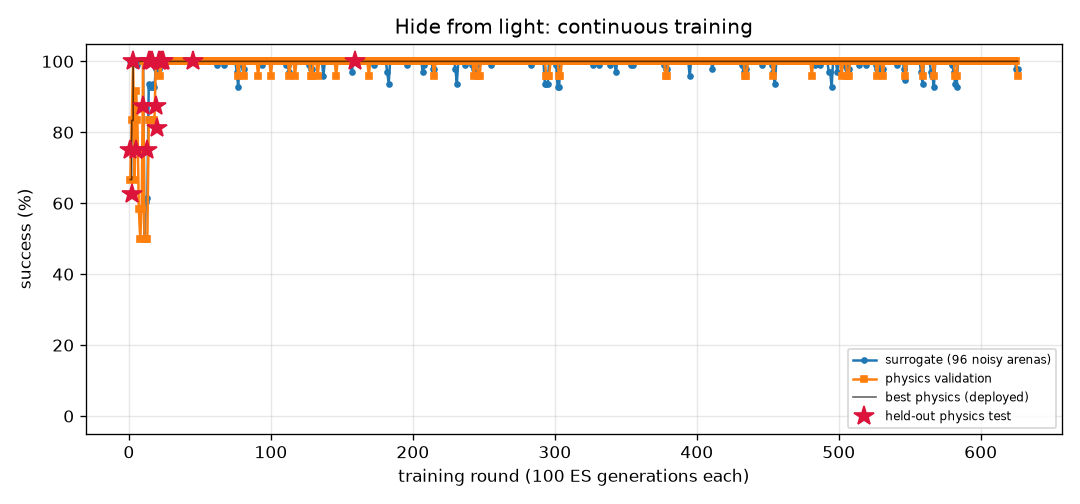
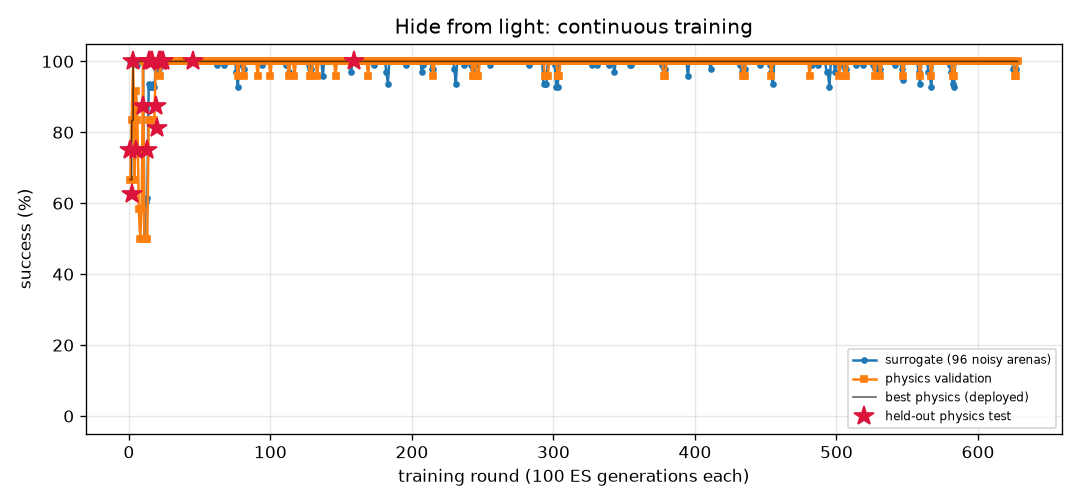
FlyLab: daily snapshot 2026-11-12
Daily entry in projects/09_flylab/training/daily/2026-11.md, plus 9 uncommitted training output file(s).

diff --git a/projects/09_flylab/training/light_avoid/REPORT.md b/projects/09_flylab/training/light_avoid/REPORT.md
@@ -1,14 +1,14 @@
 # Hide from light (`light_avoid`) — training report
 
-*Auto-generated by `train_brains.py`, last updated 2026-11-12T20:08:02.*
+*Auto-generated by `train_brains.py`, last updated 2026-11-12T20:25:10.*
 
 ![curve](curve.png)
 
 | | |
 |---|---|
-| rounds | 626 |
-| ES generations | 62600 |
-| physics runs | 15296 |
+| rounds | 628 |
+| ES generations | 62800 |
+| physics runs | 15344 |
 | status | **optimal** |
 | best brain | round 159: physics validation **100%** on 24 arenas, surrogate 100% |
 | held-out physics test | **100%** on 32 unseen arenas (95% CI 89%-100%) (errors: [14.4, 56.1, 58.0, 57.9, 57.5, 14.0, 14.4, 56.6, 56.8, 13.3, 14.1, 56.6, 57.6, 13.1, 57.3, 55.9, 57.2, 55.0, 55.2, 53.9, 55.2, 12.4, 53.8, 53.7, 14.1, 13.7, 55.0, 57.8, 56.2, 13.1, 52.8, 56.5]) |
@@ -17,8 +17,6 @@ Physics error per arena: mm gained away from source (> 6 without first approachi
 
 | round | level | gens | sigma | surrogate | physics val | val errors | test | note |
 |---:|---:|---:|---:|---:|---:|---|---:|---|
-| 587 | 3 | 58700 | 0.024 | 100% | 100% | [57.3, 60.0, 60.0, 56.9, 57.5, 57.3, 59.4, 14.5, 53.7, 13.4, 58.0, 57.3, 14.4, 55.2, 60.1, 56.7, 14.2, 58.4, 60.1, 14.4, 55.9, 56.0, 59.0, 56.4] |  | restart from best |
-| 588 | 3 | 58800 | 0.024 | 100% | 100% | [52.7, 57.4, 56.9, 53.7, 57.9, 53.6, 55.0, 14.5, 54.2, 13.1, 56.7, 57.8, 14.4, 55.0, 57.2, 56.1, 14.2, 58.2, 57.5, 14.4, 54.0, 56.7, 55.0, 57.3] |  |  |
 | 589 | 3 | 58900 | 0.024 | 100% | 100% | [43.5, 45.1, 44.7, 45.5, 45.2, 43.8, 41.8, 14.5, 34.6, 13.5, 44.3, 45.5, 14.4, 46.3, 44.6, 43.7, 14.2, 45.6, 44.7, 14.4, 44.7, 44.4, 43.1, 45.5] |  |  |
 | 590 | 3 | 59000 | 0.024 | 100% | 100% | [52.0, 55.8, 55.5, 53.9, 56.0, 53.1, 53.8, 14.5, 11.0, 13.3, 51.9, 55.8, 14.4, 55.0, 55.7, 54.4, 14.2, 56.2, 56.0, 14.4, 52.3, 51.6, 53.8, 55.3] |  |  |
 | 591 | 3 | 59100 | 0.024 | 100% | 100% | [51.0, 55.7, 55.2, 52.2, 56.3, 52.9, 53.4, 14.5, 12.7, 13.4, 52.6, 56.2, 14.4, 54.1, 55.5, 54.3, 14.2, 56.5, 55.7, 14.4, 53.7, 54.0, 53.5, 55.8] |  | restart from best |
@@ -57,3 +55,5 @@ Physics error per arena: mm gained away from source (> 6 without first approachi
 | 624 | 3 | 62400 | 0.024 | 100% | 100% | [44.1, 45.8, 45.3, 46.1, 48.4, 44.4, 43.5, 14.5, 43.1, 13.4, 48.7, 48.7, 14.4, 48.8, 45.4, 44.5, 14.2, 48.4, 45.3, 14.4, 44.4, 49.0, 44.1, 48.7] |  |  |
 | 625 | 3 | 62500 | 0.024 | 98% | 100% | [41.9, 42.4, 42.9, 43.5, 38.0, 43.2, 43.6, 14.5, 12.9, 13.5, 8.5, 37.9, 14.4, 37.9, 43.3, 42.8, 14.2, 39.2, 41.8, 14.4, 40.9, 9.0, 44.4, 36.5] |  |  |
 | 626 | 3 | 62600 | 0.025 | 98% | 96% | [49.1, 52.7, 52.4, 49.9, 52.5, 49.1, 51.0, 14.5, 13.0, 13.4, 10.2, 52.4, 14.4, 7.9, 52.6, 48.9, 14.2, 52.9, 53.1, 14.4, 47.4, 11.3, 50.5, 51.8] |  |  |
+| 627 | 3 | 62700 | 0.025 | 98% | 96% | [38.8, 40.4, 39.9, 40.1, 43.6, 38.2, 37.8, 14.5, 13.0, 13.4, 10.2, 43.7, 14.4, 8.0, 40.1, 39.9, 14.2, 43.4, 40.6, 14.4, 39.2, 11.3, 38.3, 43.8] |  | restart from best |
+| 628 | 3 | 62800 | 0.024 | 100% | 100% | [39.2, 39.7, 39.6, 40.2, 42.4, 39.2, 37.0, 14.5, 38.3, 13.3, 43.0, 42.6, 14.3, 42.6, 39.8, 39.4, 14.2, 42.5, 39.8, 14.4, 40.9, 42.9, 37.1, 42.3] |  |  |

diff --git a/projects/09_flylab/training/odor_avoid/REPORT.md b/projects/09_flylab/training/odor_avoid/REPORT.md
@@ -1,14 +1,14 @@
 # Escape a bad smell (`odor_avoid`) — training report
 
-*Auto-generated by `train_brains.py`, last updated 2026-11-12T20:07:38.*
+*Auto-generated by `train_brains.py`, last updated 2026-11-12T20:24:51.*
 
 ![curve](curve.png)
 
 | | |
 |---|---|
-| rounds | 898 |
-| ES generations | 89800 |
-| physics runs | 18858 |
+| rounds | 900 |
+| ES generations | 90000 |
+| physics runs | 18906 |
 | status | **optimal** |
 | best brain | round 373: physics validation **100%** on 24 arenas, surrogate 97% |
 | held-out physics test | **97%** on 32 unseen arenas (95% CI 84%-99%) (errors: [62.0, 57.4, 62.6, 61.9, 59.0, 61.6, 56.5, 60.7, 31.7, 60.9, 63.1, 57.1, 61.1, 62.1, 61.5, 60.2, 62.2, 55.2, 62.1, 54.2, 61.3, 62.0, 58.0, 61.9, 59.8, 56.5, 56.3, 56.4, 56.3, 57.7, 61.9, 32.4]) |
@@ -17,8 +17,6 @@ Physics error per arena: mm gained away from source (> 6 without first approachi
 
 | round | level | gens | sigma | surrogate | physics val | val errors | test | note |
 |---:|---:|---:|---:|---:|---:|---|---:|---|
-| 859 | 3 | 85900 | 0.028 | 94% | 100% | [60.8, 58.1, 56.0, 58.7, 41.2, 52.2, 61.5, 57.3, 60.5, 57.7, 51.6, 61.3, 9.0, 54.1, 36.3, 61.2, 60.5, 53.0, 49.2, 57.7, 60.3, 37.6, 59.1, 60.6] |  |  |
-| 860 | 3 | 86000 | 0.028 | 97% | 92% | [60.2, 56.2, 52.8, 55.6, 58.8, 58.7, 58.0, 58.3, 58.6, 57.4, 48.6, 59.5, 0.0, 51.4, 33.5, 57.0, 59.1, 58.0, 48.7, 52.5, 58.6, 59.0, 55.4, 59.0] |  |  |
 | 861 | 3 | 86100 | 0.026 | 96% | 92% | [59.2, 52.1, 55.3, 52.0, 58.4, 59.3, 57.3, 53.4, 57.5, 54.6, 46.8, 59.7, 43.1, 53.1, 27.8, 60.2, 59.8, 59.2, 48.1, 51.9, 59.6, 56.6, 52.2, 57.5] |  | restart from best |
 | 862 | 3 | 86200 | 0.026 | 97% | 100% | [62.1, 60.5, 55.7, 61.0, 61.8, 60.3, 60.1, 61.0, 61.6, 60.7, 61.9, 61.6, 54.6, 55.4, 48.2, 61.7, 61.7, 61.1, 55.1, 56.5, 61.6, 61.5, 59.7, 61.1] |  |  |
 | 863 | 3 | 86300 | 0.026 | 94% | 100% | [61.1, 60.0, 54.9, 56.1, 59.2, 51.0, 59.7, 24.9, 60.0, 16.1, 38.8, 60.1, 31.0, 54.6, 6.2, 59.2, 60.7, 31.4, 50.8, 58.5, 60.4, 27.2, 55.7, 24.2] |  |  |
@@ -57,3 +55,5 @@ Physics error per arena: mm gained away from source (> 6 without first approachi
 | 896 | 3 | 89600 | 0.028 | 96% | 100% | [60.9, 60.2, 56.0, 56.8, 61.7, 61.3, 60.6, 38.4, 61.5, 47.7, 59.6, 61.7, 54.3, 56.3, 43.2, 60.0, 61.7, 58.9, 54.7, 58.4, 61.4, 59.6, 59.2, 59.3] |  |  |
 | 897 | 3 | 89700 | 0.026 | 98% | 96% | [61.2, 59.0, 56.4, 60.5, 61.1, 62.1, 62.0, 59.5, 61.4, 61.7, 61.7, 61.8, 54.6, 55.9, 43.8, 61.0, 62.0, 61.8, 54.9, 56.8, 61.6, 61.7, 59.1, 61.7] |  | restart from best |
 | 898 | 3 | 89800 | 0.026 | 92% | 92% | [61.6, 56.7, 56.3, 56.5, 60.7, 39.8, 61.9, 1.4, 61.8, 23.5, 58.4, 61.2, 51.7, 55.5, 36.4, 60.8, 61.5, 60.4, 54.8, 56.0, 61.6, 23.4, 56.8, 14.6] |  |  |
+| 899 | 3 | 89900 | 0.029 | 97% | 100% | [60.9, 56.7, 56.4, 57.3, 62.1, 59.8, 60.1, 19.1, 61.8, 47.0, 61.8, 62.2, 54.9, 56.0, 50.9, 61.7, 61.5, 62.0, 55.6, 56.6, 62.5, 44.5, 57.3, 35.9] |  |  |
+| 900 | 3 | 90000 | 0.026 | 96% | 96% | [61.9, 57.5, 55.9, 60.6, 62.2, 62.1, 62.4, 34.9, 62.0, 49.6, 57.4, 62.0, 51.7, 51.7, 24.6, 60.9, 61.1, 60.6, 51.8, 57.0, 61.1, 60.2, 60.7, 52.0] |  |  |

diff --git a/projects/09_flylab/training/TRAINING.md b/projects/09_flylab/training/TRAINING.md
@@ -1,6 +1,6 @@
 # FlyLab brains — continuous training log
 
-*Auto-generated by `train_brains.py`, last updated 2026-11-12T20:08:02.*
+*Auto-generated by `train_brains.py`, last updated 2026-11-12T20:25:10.*
 
 Every skill has its own brain and its own training process: surrogate ES rounds, physics validation in MuJoCo, keep-the-best selection, and a held-out physics test that is never used for selection. See each skill's report for its full round-by-round history. Mastery is progressive: passing a level (100% physics validation, >=95% surrogate) doubles the validation and test arena sets; a brain is **optimal** once it holds up at level 3 (>=95% of 24 validation arenas) AND scores >=90% on the 32 held-out test arenas. Test columns show 95% Wilson confidence intervals.
 
@@ -10,6 +10,6 @@ Every skill has its own brain and its own training process: surrogate ES rounds,
 | [Turn in place](turn/REPORT.md) | 1013 | 101300 | 24558 | 100% | 100% of 24 | 97% of 32 (CI 84-99%) | **optimal** |
 | [Go to a location](goto/REPORT.md) | 287 | 28700 | 6838 | 100% | 100% of 24 | 100% of 32 (CI 89-100%) | **optimal** |
 | [Find food by smell](odor_seek/REPORT.md) | 235 | 23500 | 5070 | 100% | 100% of 24 | 100% of 32 (CI 89-100%) | **optimal** |
-| [Escape a bad smell](odor_avoid/REPORT.md) | 898 | 89800 | 18858 | 97% | 100% of 24 | 97% of 32 (CI 84-99%) | **optimal** |
+| [Escape a bad smell](odor_avoid/REPORT.md) | 900 | 90000 | 18906 | 97% | 100% of 24 | 97% of 32 (CI 84-99%) | **optimal** |
 | [Walk toward light](light_seek/REPORT.md) | 487 | 48700 | 8568 | 100% | 100% of 24 | 100% of 32 (CI 89-100%) | **optimal** |
-| [Hide from light](light_avoid/REPORT.md) | 626 | 62600 | 15296 | 100% | 100% of 24 | 100% of 32 (CI 89-100%) | **optimal** |
+| [Hide from light](light_avoid/REPORT.md) | 628 | 62800 | 15344 | 100% | 100% of 24 | 100% of 32 (CI 89-100%) | **optimal** |

diff --git a/projects/09_flylab/training/daily/2026-11.md b/projects/09_flylab/training/daily/2026-11.md
@@ -61,3 +61,18 @@ Written by daily_commit.py once a day.
 
 - training supervisor: running
 - commits in the last 24 h: 7 (latest `73fb5f4 20:20 FlyLab: continuous training progress`)
+
+## 2026-11-12 (Thu)
+
+| brain | state | level | physics val | test | round |
+|---|---|---|---|---|---|
+| walk_forward | optimal | 3 | 100% of 24 | 100% | 367 |
+| turn | optimal | 3 | 100% of 24 | 97% | 1013 |
+| goto | optimal | 3 | 100% of 24 | 100% | 287 |
+| odor_seek | optimal | 3 | 100% of 24 | 100% | 235 |
+| odor_avoid | optimal | 3 | 100% of 24 | 97% | 900 |
+| light_seek | optimal | 3 | 100% of 24 | 100% | 487 |
+| light_avoid | optimal | 3 | 100% of 24 | 100% | 628 |
+
+- training supervisor: running
+- commits in the last 24 h: 9 (latest `876810b 20:12 FlyLab: continuous training progress`)
